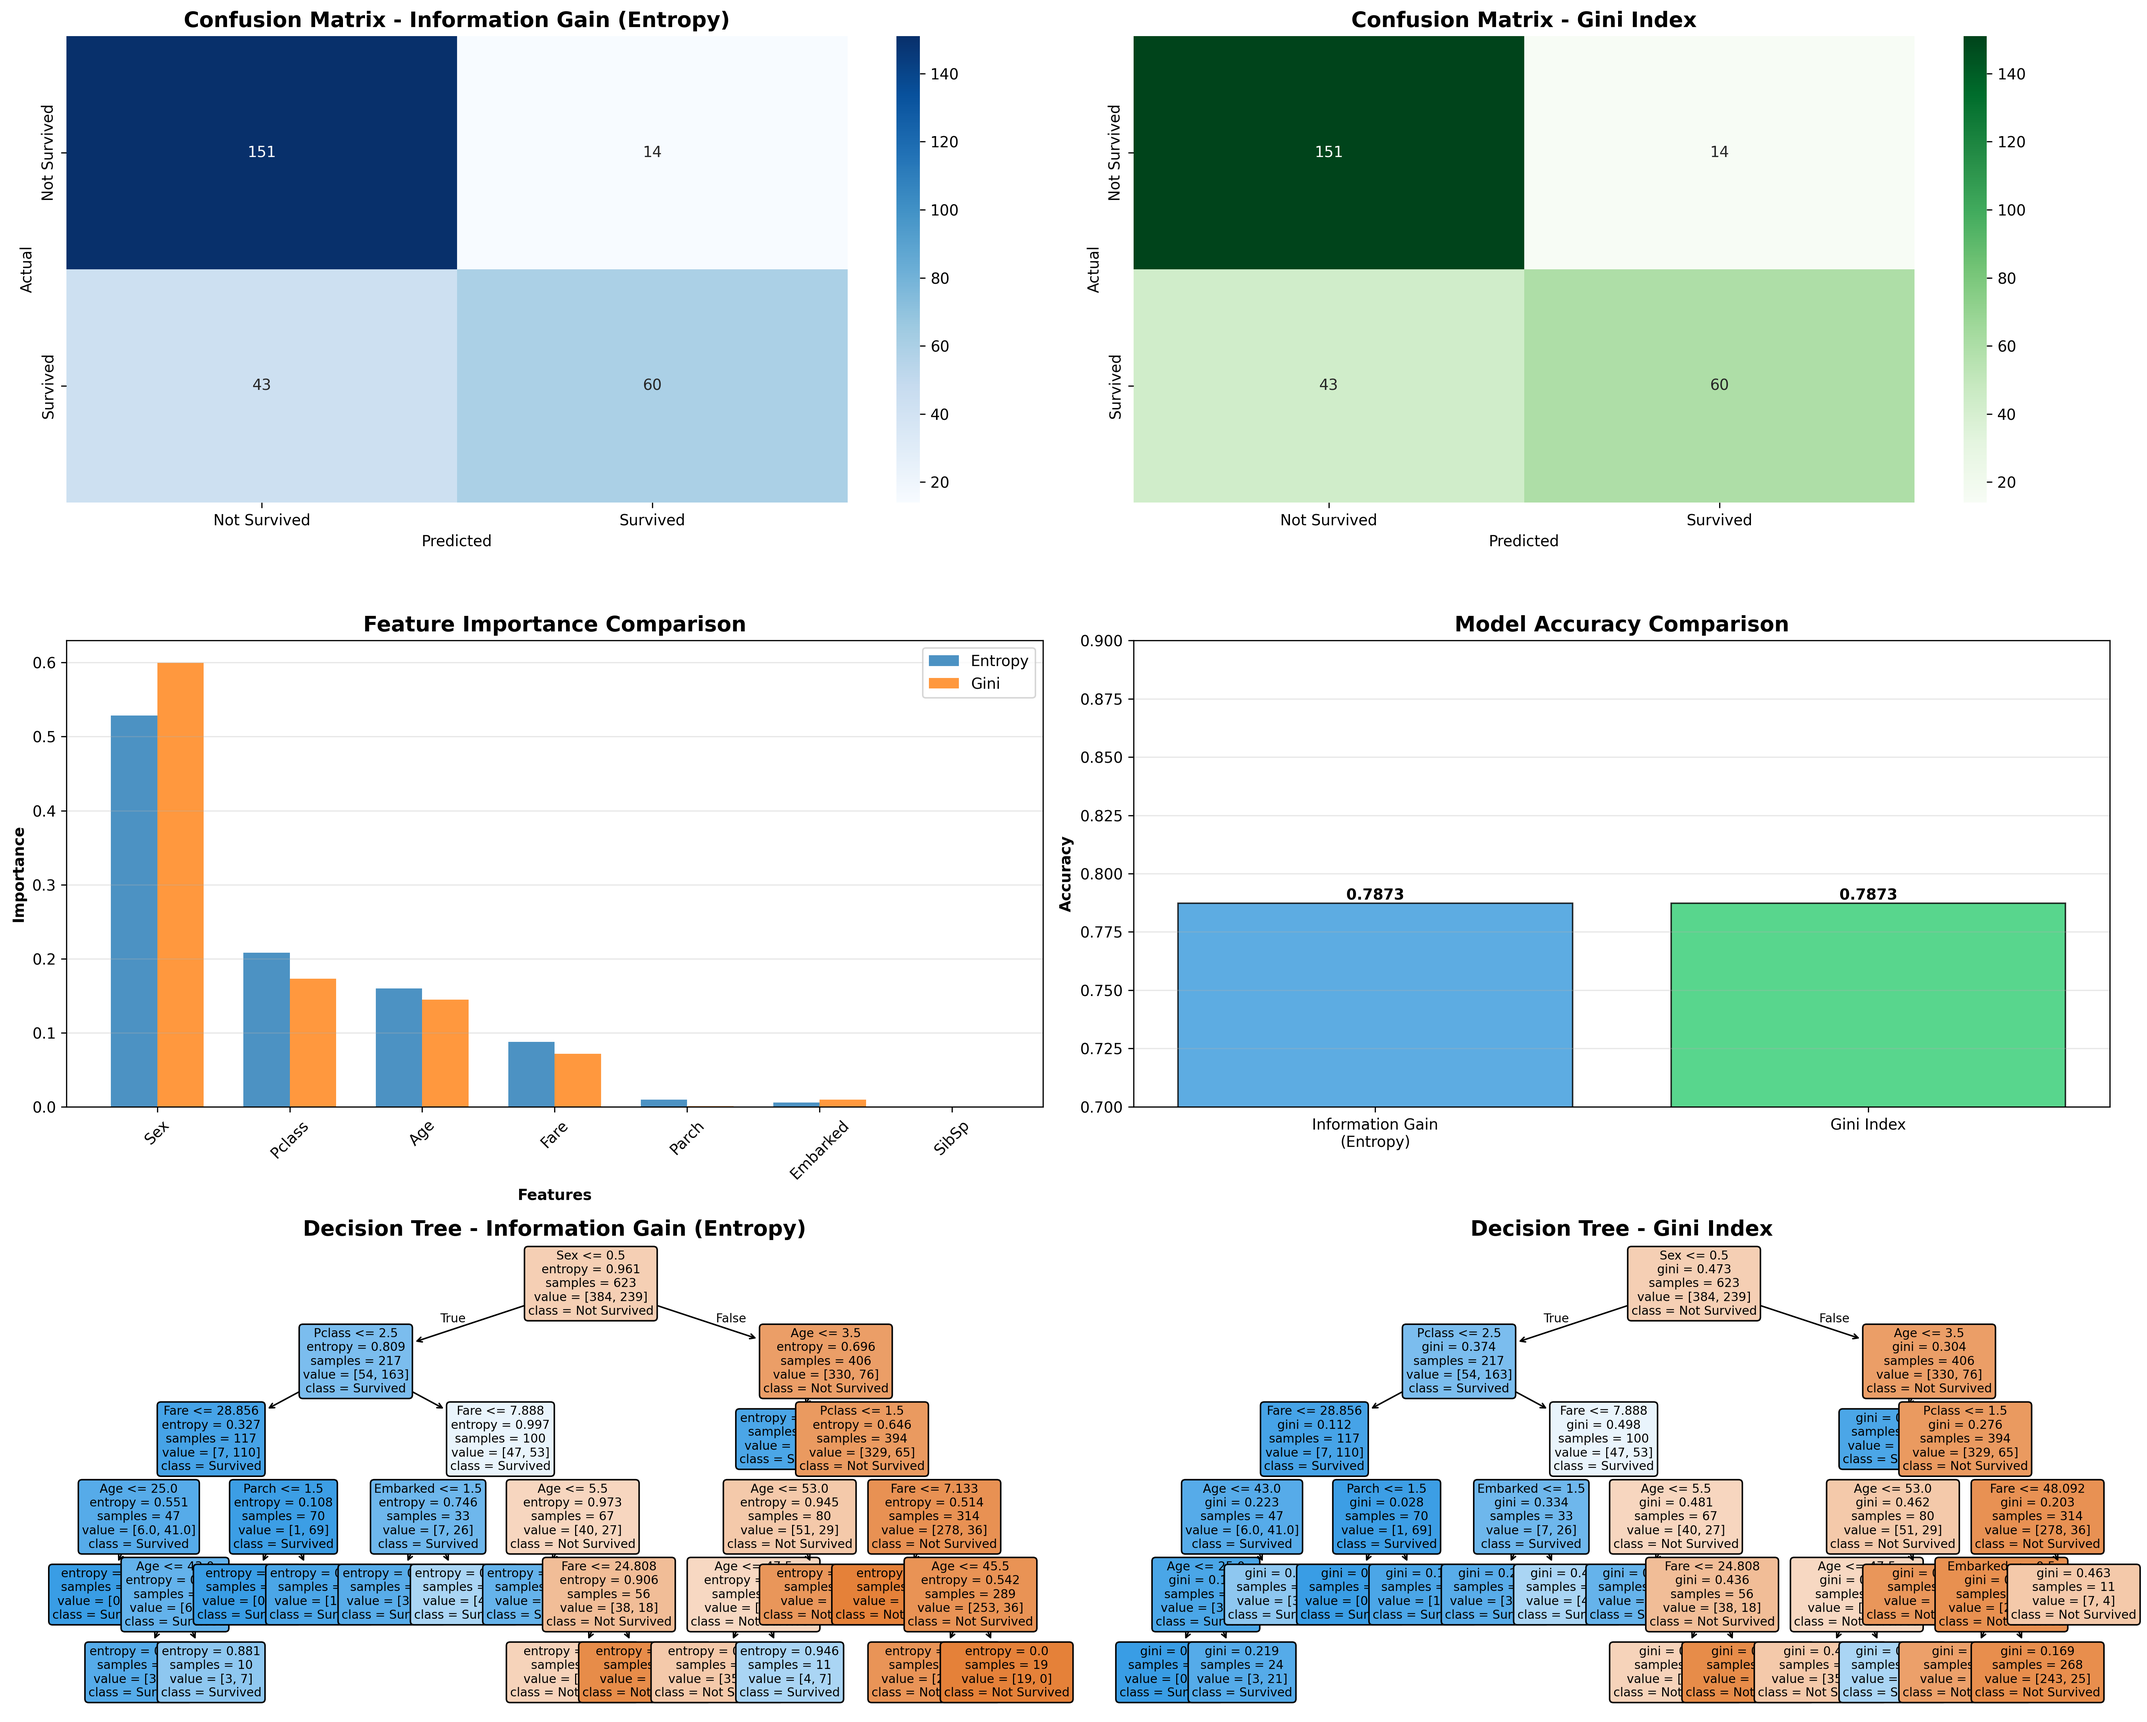
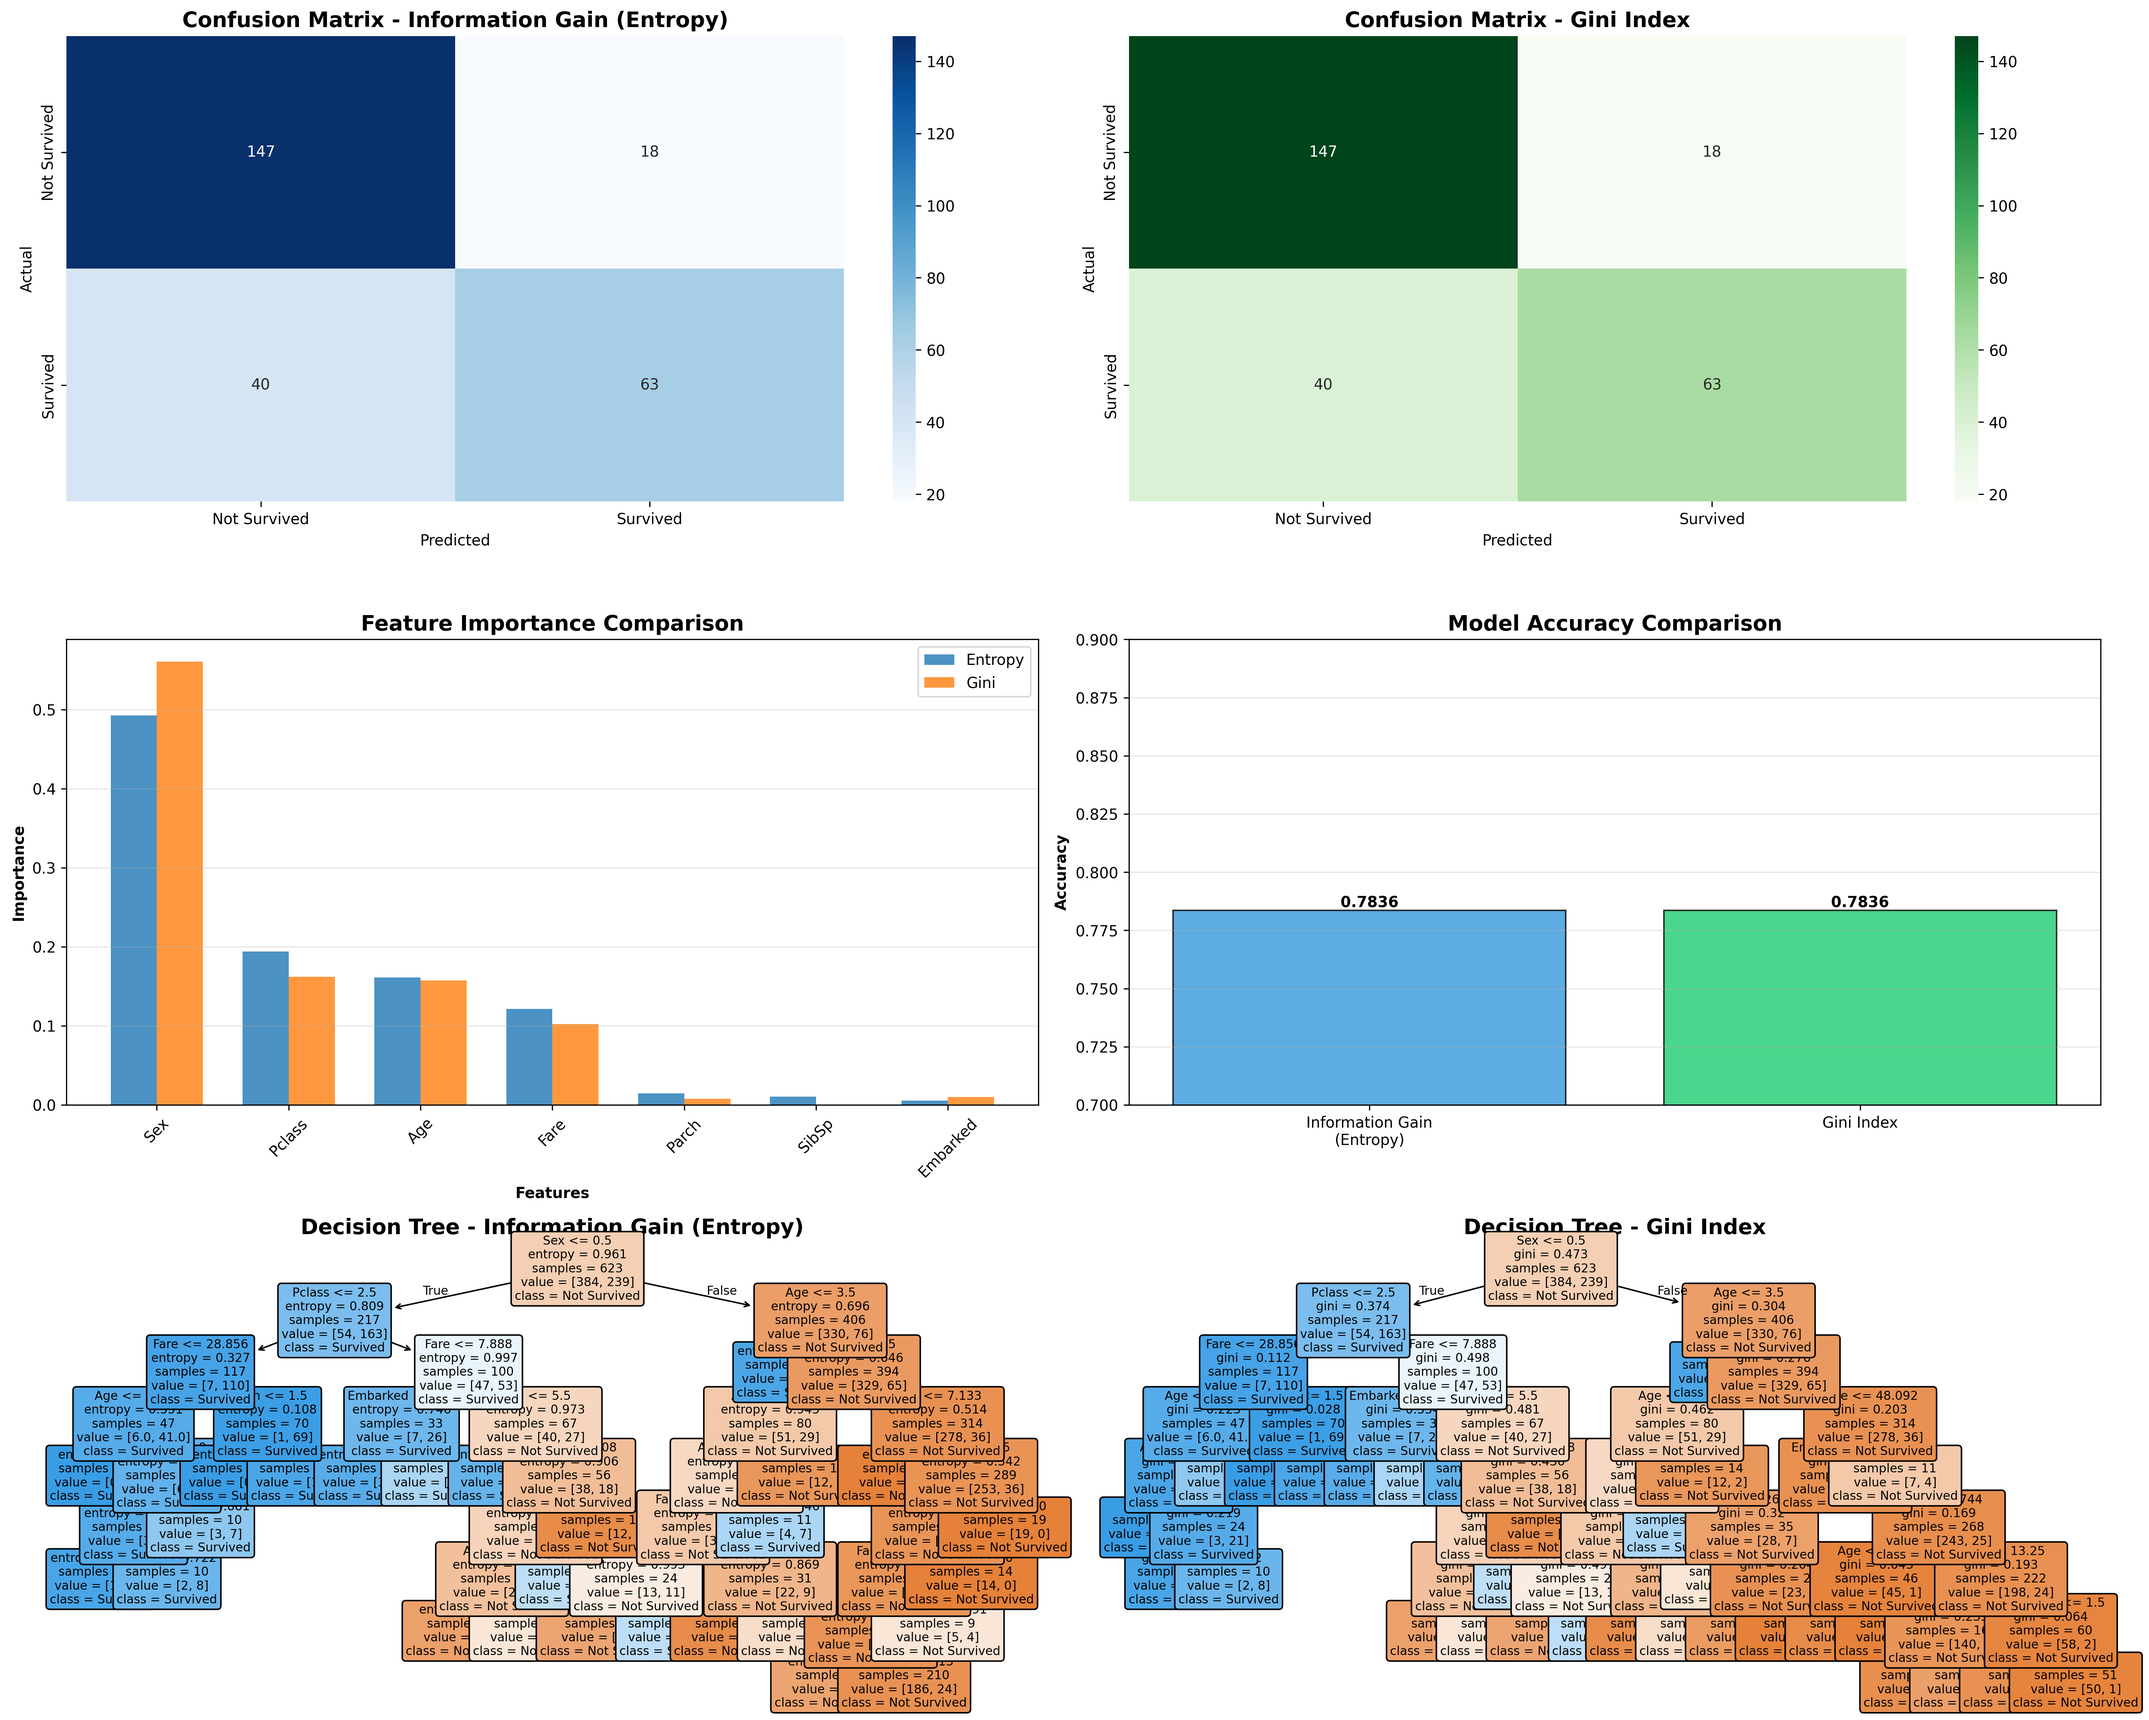
minor changes

diff --git a/python/aifound/lab-decision.py b/python/aifound/lab-decision.py
@@ -53,7 +53,7 @@ print("DECISION TREE WITH INFORMATION GAIN (ENTROPY)")
 
 dt_entropy = DecisionTreeClassifier(
     criterion='entropy',
-    max_depth=8,
+    max_depth=3,
     min_samples_split=22,
     min_samples_leaf=9,
     random_state=42
@@ -80,7 +80,7 @@ print("MODEL 2: DECISION TREE WITH GINI INDEX")
 
 dt_gini = DecisionTreeClassifier(
     criterion='gini',
-    max_depth=8,
+    max_depth=3,
     min_samples_split=22,
     min_samples_leaf=9,
     random_state=42
@@ -136,6 +136,102 @@ feat_imp_df = pd.DataFrame({
 })
 feat_imp_df = feat_imp_df.sort_values('Entropy', ascending=False)
 print("\n", feat_imp_df.to_string(index=False))
+
+print("GENERATING VISUALIZATIONS")
+
+fig = plt.figure(figsize=(20, 16))
+
+plt.subplot(3, 2, 1)
+sns.heatmap(cm_entropy, annot=True, fmt='d', cmap='Blues',
+            xticklabels=['Not Survived', 'Survived'],
+            yticklabels=['Not Survived', 'Survived'])
+plt.title('Confusion Matrix - Information Gain (Entropy)', fontsize=14, fontweight='bold')
+plt.ylabel('Actual')
+plt.xlabel('Predicted')
+
+plt.subplot(3, 2, 2)
+sns.heatmap(cm_gini, annot=True, fmt='d', cmap='Greens',
+            xticklabels=['Not Survived', 'Survived'],
+            yticklabels=['Not Survived', 'Survived'])
+plt.title('Confusion Matrix - Gini Index', fontsize=14, fontweight='bold')
+plt.ylabel('Actual')
+plt.xlabel('Predicted')
+
+plt.subplot(3, 2, 3)
+x = np.arange(len(features))
+width = 0.35
+plt.bar(x - width/2, feat_imp_df['Entropy'], width, label='Entropy', alpha=0.8)
+plt.bar(x + width/2, feat_imp_df['Gini'], width, label='Gini', alpha=0.8)
+plt.xlabel('Features', fontweight='bold')
+plt.ylabel('Importance', fontweight='bold')
+plt.title('Feature Importance Comparison', fontsize=14, fontweight='bold')
+plt.xticks(x, feat_imp_df['Feature'], rotation=45)
+plt.legend()
+plt.grid(axis='y', alpha=0.3)
+
+plt.subplot(3, 2, 4)
+models = ['Information Gain\n(Entropy)', 'Gini Index']
+accuracies = [accuracy_entropy, accuracy_gini]
+colors = ['#3598db', '#1ecc71']
+bars = plt.bar(models, accuracies, color=colors, alpha=0.8, edgecolor='black')
+plt.ylabel('Accuracy', fontweight='bold')
+plt.title('Model Accuracy Comparison', fontsize=14, fontweight='bold')
+plt.ylim([0.7, 0.9])
+for bar in bars:
+    height = bar.get_height()
+    plt.text(bar.get_x() + bar.get_width()/2., height,
+             f'{height:.4f}', ha='center', va='bottom', fontweight='bold')
+plt.grid(axis='y', alpha=0.3)
+
+plt.subplot(3, 2, 5)
+plot_tree(dt_entropy,
+          feature_names=features,
+          class_names=['Not Survived', 'Survived'],
+          filled=True,
+          rounded=True,
+          fontsize=8)
+plt.title('Decision Tree - Information Gain (Entropy)', fontsize=14, fontweight='bold')
+
+plt.subplot(3, 2, 6)
+plot_tree(dt_gini,
+          feature_names=features,
+          class_names=['Not Survived', 'Survived'],
+          filled=True,
+          rounded=True,
+          fontsize=8)
+plt.title('Decision Tree - Gini Index', fontsize=14, fontweight='bold')
+
+plt.tight_layout()
+plt.show()
+
+fig, axes = plt.subplots(1, 2, figsize=(24, 12))
+
+plot_tree(dt_entropy,
+          feature_names=features,
+          class_names=['Not Survived', 'Survived'],
+          filled=True,
+          rounded=True,
+          fontsize=10,
+          ax=axes[0])
+axes[0].set_title('Decision Tree - Information Gain (Entropy)\n' +
+                  f'Depth: {dt_entropy.get_depth()}, Leaves: {dt_entropy.get_n_leaves()}, ' +
+                  f'Accuracy: {accuracy_entropy:.4f}',
+                  fontsize=14, fontweight='bold')
+
+plot_tree(dt_gini,
+          feature_names=features,
+          class_names=['Not Survived', 'Survived'],
+          filled=True,
+          rounded=True,
+          fontsize=10,
+          ax=axes[1])
+axes[1].set_title('Decision Tree - Gini Index\n' +
+                  f'Depth: {dt_gini.get_depth()}, Leaves: {dt_gini.get_n_leaves()}, ' +
+                  f'Accuracy: {accuracy_gini:.4f}',
+                  fontsize=14, fontweight='bold')
+
+plt.tight_layout()
+plt.show()
 
 
 
